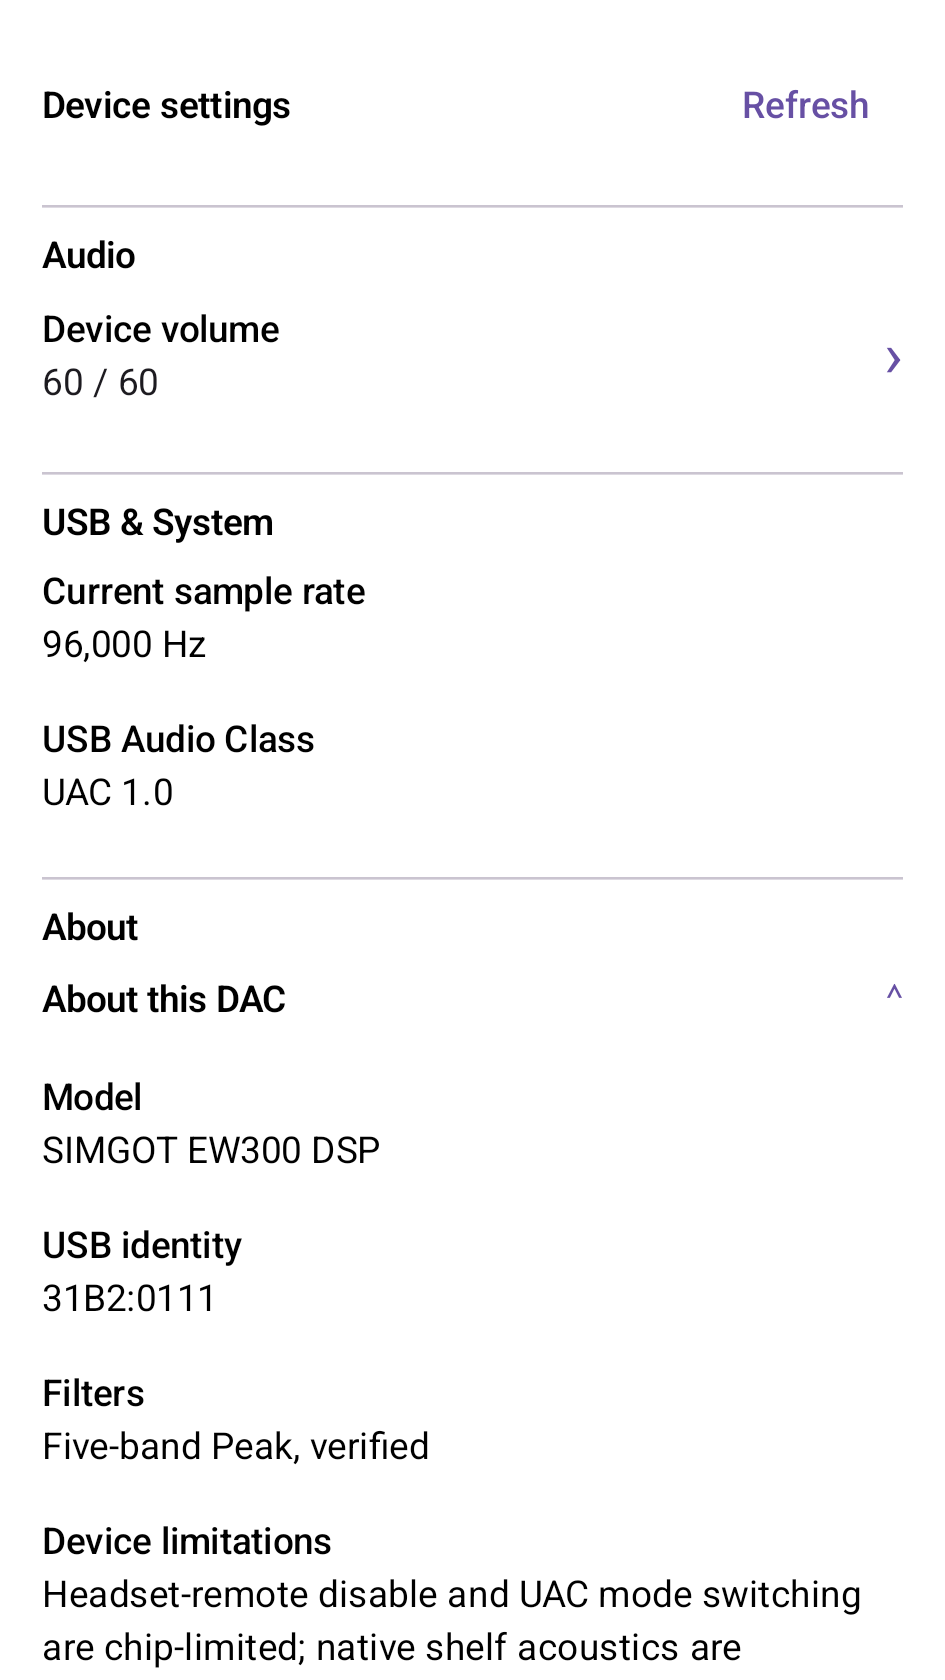
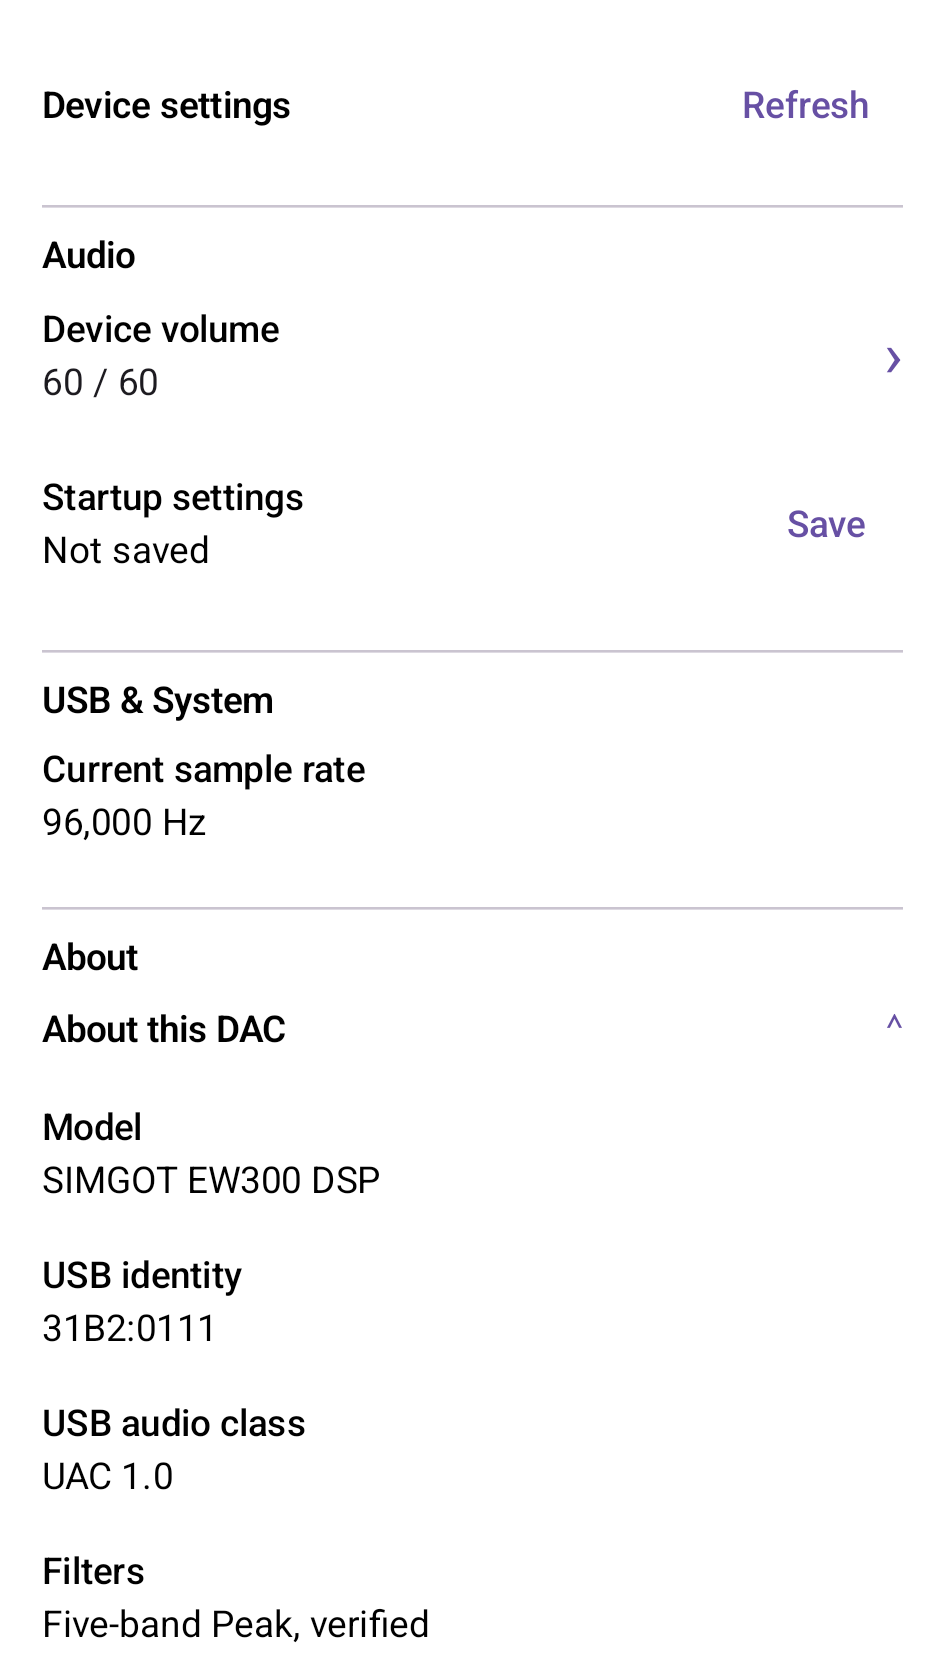
Polish the v0.11 device page: startup Save, fixed USB class, shorter copy
Startup settings now offers a Save action while the state is "Not saved",
matching the JA11 pattern; an unknown state still renders no row.

Move USB Audio Class into About as "USB audio class" because it is a
fixed property, not a setting. USB & System keeps only the read-only
current sample rate.

Tighten the volume dialog, the Settings Direct Flash help, and the EW300
output subtitle to one concise sentence each, keeping sentence-case
labels and one action per row on the shared JA11 components.

Recapture the four DEVICE screenshots from this APK and add a Compose
test for the startup Save action.

Changed region(s): [[0.0307, 0.65, 0.9206, 0.9905], [0.0307, 0.2786, 0.3989, 0.619], [0.8286, 0.2786, 0.9206, 0.3405]]

diff --git a/app/src/androidTest/java/com/weekssa/opraeqforuapp/ui/screens/Ew300ProductSurfaceTest.kt b/app/src/androidTest/java/com/weekssa/opraeqforuapp/ui/screens/Ew300ProductSurfaceTest.kt
@@ -13,12 +13,14 @@ import com.weekssa.opraeqforuapp.domain.dac.DacStateFreshness
 import com.weekssa.opraeqforuapp.domain.dac.HardwareEqSnapshotFactory
 import com.weekssa.opraeqforuapp.domain.dac.HardwareEqSnapshotState
 import com.weekssa.opraeqforuapp.domain.ew300.Ew300Protocol
+import com.weekssa.opraeqforuapp.domain.ew300.Ew300RuntimePersistenceState
 import com.weekssa.opraeqforuapp.domain.ew300.Ew300UacStatus
 import com.weekssa.opraeqforuapp.domain.kt02h20.Kt02h20Band
 import com.weekssa.opraeqforuapp.ui.Ew300UacUiState
 import com.weekssa.opraeqforuapp.ui.MyDacEditorUiState
 import com.weekssa.opraeqforuapp.data.catalog.CatalogState
 import com.weekssa.opraeqforuapp.data.kt02h20.Kt02h20ConnectionState
+import org.junit.Assert.assertEquals
 import org.junit.Assert.assertTrue
 import org.junit.Rule
 import org.junit.Test
@@ -45,7 +47,10 @@ class Ew300ProductSurfaceTest {
         return HardwareEqSnapshotState(bundle = bundle, freshness = DacStateFreshness.CURRENT)
     }
 
-    internal fun renderDevice() {
+    internal fun renderDevice(
+        runtimePersistence: Ew300RuntimePersistenceState = Ew300RuntimePersistenceState.UNKNOWN,
+        onSaveRuntime: () -> Unit = {},
+    ) {
         composeRule.setContent {
             Column(Modifier.verticalScroll(rememberScrollState())) {
                 Ew300DeviceStatus(
@@ -61,6 +66,8 @@ class Ew300ProductSurfaceTest {
                             headsetFeaturePresent = false,
                         ),
                     ),
+                    runtimePersistence = runtimePersistence,
+                    onSaveRuntime = onSaveRuntime,
                     running = false,
                     onRun = {},
                     onShareReadable = {},
@@ -92,8 +99,8 @@ class Ew300ProductSurfaceTest {
         composeRule.onNodeWithText("Startup settings").assertDoesNotExist()
         composeRule.onNodeWithText("Current sample rate").performScrollTo().assertIsDisplayed()
         composeRule.onNodeWithText("96,000 Hz").assertIsDisplayed()
-        composeRule.onNodeWithText("USB Audio Class").performScrollTo().assertIsDisplayed()
-        composeRule.onNodeWithText("UAC 1.0").assertIsDisplayed()
+        // The USB audio class is fixed for this device, so it lives in About.
+        composeRule.onNodeWithText("USB audio class").assertDoesNotExist()
 
         composeRule.onNodeWithText("Output gain").assertDoesNotExist()
         composeRule.onNodeWithText("Equalizer").assertDoesNotExist()
@@ -108,12 +115,28 @@ class Ew300ProductSurfaceTest {
     }
 
     @Test
+    fun startupSettingsOffersSaveWhileTheStateIsNotSaved() {
+        var saves = 0
+        renderDevice(
+            runtimePersistence = Ew300RuntimePersistenceState.RUNTIME_ONLY,
+            onSaveRuntime = { saves += 1 },
+        )
+
+        composeRule.onNodeWithText("Startup settings").performScrollTo().assertIsDisplayed()
+        composeRule.onNodeWithText("Not saved").assertIsDisplayed()
+        composeRule.onNodeWithText("Save").performScrollTo().performClick()
+        composeRule.runOnIdle { assertEquals(1, saves) }
+    }
+
+    @Test
     fun aboutListsIdentityAndTheOneLineLimitations() {
         renderDevice()
 
         composeRule.onNodeWithText("About this DAC").performScrollTo().performClick()
         composeRule.onNodeWithText("SIMGOT EW300 DSP").performScrollTo().assertIsDisplayed()
         composeRule.onNodeWithText("31B2:0111").performScrollTo().assertIsDisplayed()
+        composeRule.onNodeWithText("USB audio class").performScrollTo().assertIsDisplayed()
+        composeRule.onNodeWithText("UAC 1.0").assertIsDisplayed()
         composeRule.onNodeWithText("Device limitations").performScrollTo().assertIsDisplayed()
         composeRule.onNodeWithText(
             "Headset-remote disable and UAC mode switching are chip-limited; native shelf acoustics are unmeasured; the device accepts a microphone mute request, but no effect on captured audio has been measured.",

diff --git a/app/src/main/java/com/weekssa/opraeqforuapp/ui/screens/Ew300MyDacContent.kt b/app/src/main/java/com/weekssa/opraeqforuapp/ui/screens/Ew300MyDacContent.kt
@@ -769,7 +769,7 @@ internal fun Ew300DeviceStatus(
             text = {
                 Column(verticalArrangement = Arrangement.spacedBy(12.dp)) {
                     Text(
-                        "60 is the loudest setting and 0 is silent; each step is one dB. Changes apply for this session until you save from the EQ tab.",
+                        "60 is the loudest, 0 is silent, one step per dB. Applies until you save.",
                         style = MaterialTheme.typography.bodyMedium,
                     )
                     Text(
@@ -877,6 +877,14 @@ internal fun Ew300DeviceStatus(
                 Text("Startup settings", style = MaterialTheme.typography.labelLarge)
                 Text(startupLabel, style = MaterialTheme.typography.bodyMedium)
             }
+            if (runtimePersistence == Ew300RuntimePersistenceState.RUNTIME_ONLY) {
+                TextButton(
+                    onClick = onSaveRuntime,
+                    enabled = !runtimeSaveState.running && !operationBusy,
+                ) {
+                    Text(if (runtimeSaveState.running) "Saving…" else "Save")
+                }
+            }
         }
     }
 
@@ -886,10 +894,6 @@ internal fun Ew300DeviceStatus(
         value = uacState.status?.currentSampleRateHz?.let { rate ->
             String.format(Locale.US, "%,d Hz", rate)
         } ?: "Not read",
-    )
-    ReadOnlyValueRow(
-        label = "USB Audio Class",
-        value = uacState.status?.uacVersion ?: "Not read",
     )
 
     DeviceSectionTitle("About")
@@ -903,6 +907,9 @@ internal fun Ew300DeviceStatus(
             ReadOnlyValueRow(label = "Firmware", value = firmware)
         }
         ReadOnlyValueRow(label = "USB identity", value = "31B2:0111")
+        uacState.status?.uacVersion?.let { uacVersion ->
+            ReadOnlyValueRow(label = "USB audio class", value = uacVersion)
+        }
         ReadOnlyValueRow(label = "Filters", value = "Five-band Peak, verified")
         ReadOnlyValueRow(
             label = "Device limitations",

diff --git a/app/src/main/java/com/weekssa/opraeqforuapp/ui/screens/SettingsScreen.kt b/app/src/main/java/com/weekssa/opraeqforuapp/ui/screens/SettingsScreen.kt
@@ -214,7 +214,7 @@ fun SettingsScreen(
             modifier = Modifier.padding(bottom = 6.dp),
         )
         Text(
-            text = "Direct Flash writes only the EQ transaction you explicitly request. A hardware DAC must be the active EQ target, its Direct Flash switch must be on, and the device must be connected; My EQs and the headphone screen name the exact missing step. My DAC device controls are shown separately and only for capabilities established for the connected model.",
+            text = "Direct Flash writes only the EQ you request. The DAC must be the active target, have Direct Flash on, and be connected.",
             style = MaterialTheme.typography.bodySmall,
             color = MaterialTheme.colorScheme.onSurfaceVariant,
             modifier = Modifier.padding(bottom = 10.dp),
@@ -521,7 +521,7 @@ private fun OutputOption(
                         ExportDevice.SIMGOT_EW300 -> if (BuildConfig.EW300_SHELF_EDITOR_ENABLED) {
                             "Shelf-free EQs use five Peak bands; native shelves inside the -6 dB / Q 0.707 envelope keep their type 3/4 words; anything else is fitted to five Peaks"
                         } else {
-                            "Shelf-free EQs use five Peak bands; shelf bands are fitted to those five Peaks and reported as Optimized"
+                            "Five Peak bands · shelf bands fitted and reported as Optimized"
                         }
                         else -> "EQ Library adapts the source to this device's hardware capabilities"
                     },

diff --git a/app/src/androidTest/java/com/weekssa/opraeqforuapp/ui/screens/Ew300DeviceScreenshotTest.kt b/app/src/androidTest/java/com/weekssa/opraeqforuapp/ui/screens/Ew300DeviceScreenshotTest.kt
@@ -25,6 +25,7 @@ import com.weekssa.opraeqforuapp.domain.dac.DacStateFreshness
 import com.weekssa.opraeqforuapp.domain.dac.HardwareEqSnapshotFactory
 import com.weekssa.opraeqforuapp.domain.dac.HardwareEqSnapshotState
 import com.weekssa.opraeqforuapp.domain.ew300.Ew300Protocol
+import com.weekssa.opraeqforuapp.domain.ew300.Ew300RuntimePersistenceState
 import com.weekssa.opraeqforuapp.domain.ew300.Ew300UacStatus
 import com.weekssa.opraeqforuapp.domain.kt02h20.Kt02h20Band
 import com.weekssa.opraeqforuapp.ui.Ew300UacUiState
@@ -82,6 +83,7 @@ class Ew300DeviceScreenshotTest {
                                 headsetFeaturePresent = false,
                             ),
                         ),
+                        runtimePersistence = Ew300RuntimePersistenceState.RUNTIME_ONLY,
                         running = false,
                         onRun = {},
                         onShareReadable = {},
@@ -113,6 +115,7 @@ class Ew300DeviceScreenshotTest {
         composeRule.waitForIdle()
         capture("about-expanded.png")
         val limitations = composeRule.onNodeWithText("Device limitations")
+            .performScrollTo()
             .captureToImage()
             .asAndroidBitmap()
         File(dir(), "limitations.png").outputStream().use { stream ->

diff --git a/docs/planning/ew300-ja11-parity/TEST_EVIDENCE_LOG.md b/docs/planning/ew300-ja11-parity/TEST_EVIDENCE_LOG.md
@@ -489,3 +489,15 @@ Add entries below in chronological order.
 - Restoration: "Reset to flat" with one Save returned Flat, five Peak 1 kHz/0 dB/Q1, gain 0.0 dB.
 - Save count: one target Save plus one restoration Save. No listening test. DAC left flat at 0.0 dB.
 
+
+### T-034 — DEVICE polish: startup Save, fixed USB class moved to About, tighter copy
+
+- Date: 2026-11-06
+- Candidate: com.weekssa.opraeqforuapp.v011beta 0.11.0-beta.1/23, APK 1995927d3adfe70928a44488c5ba876e97e60e67636fb321b8561e50bb199ea1, built 2026-11-06T04:52:07Z, local debug signer.
+- Startup settings now mirrors JA11: when the state is "Not saved" the row carries a Save action that calls the same Save transaction as the EQ tab; "Saved" shows without an action, and an unknown state still renders no row. A Compose test asserts the Save button is present, clickable, and invokes the callback.
+- USB Audio Class moved from USB & System to About as "USB audio class", because the class is fixed for this device and was presented like a settable row. USB & System now holds only "Current sample rate".
+- Copy tightened: the volume dialog reads "60 is the loudest, 0 is silent, one step per dB. Applies until you save."; the Settings Direct Flash help reads "Direct Flash writes only the EQ you request. The DAC must be the active target, have Direct Flash on, and be connected."; the EW300 output subtitle is "Five Peak bands · shelf bands fitted and reported as Optimized".
+- Consistency: rows use the shared JA11 components (DeviceOperationStatusHeader, DeviceSectionTitle, SimpleDeviceSettingRow, ReadOnlyValueRow, ExpandableAboutHeader), sentence-case labels, one action per row, 48 dp touch targets.
+- Validation: JVM 878 tests, 0 failures (04:52:33Z); lint 0 errors / 121 warnings / 2 hints (report 22:57:35 CST); connected v011beta instrumented suite 84/84 on emulator-5554 (BUILD SUCCESSFUL 04:55:17Z). Screenshots recaptured from this APK.
+- No Pixel interaction for this candidate; no Flash or Save was repeated.
+

diff --git a/docs/V0.11_PROTOTYPE_DESIGN_LANGUAGE.md b/docs/V0.11_PROTOTYPE_DESIGN_LANGUAGE.md
@@ -65,3 +65,16 @@ Screenshots: docs/screenshots/v011/{device-top,about-expanded,device-bottom,limi
 from this candidate at 360 dp width; device-bottom uses a 360×360 viewport because the page fits
 otherwise.
 
+
+## Polish pass (candidate 1995927d)
+
+- Startup settings now matches JA11: "Not saved" carries a Save action; "Saved" does not. An
+  unknown state still renders no row.
+- USB Audio Class moved to About ("USB audio class"). It is a fixed property of the device, so
+  presenting it in the USB & System section implied a setting that does not exist. USB & System now
+  holds only the read-only current sample rate.
+- Copy shortened to one line per concept: the volume dialog, the Settings Direct Flash help, and the
+  EW300 output subtitle. Labels stay sentence case and every row keeps a single action.
+- Consistency: both device pages now render through the same shared rows and section titles, so the
+  EW300 reads with the same rhythm as the JA11.
+

diff --git a/docs/releases/v0.11.0-beta.1.md b/docs/releases/v0.11.0-beta.1.md
@@ -18,10 +18,10 @@ work. It is not a new chip investigation and it does not claim full FiiO JA11 pa
 
 | Code head | 57fd583651775f39aeef8efcf72958e5b8d05254 |
 | APK | app/build/outputs/apk/v011beta/app-v011beta.apk |
-| APK SHA-256 | 12974c73297479df9c53a360090d6a09b400ff2aefb85d25839cc5fb1ecba47e |
+| APK SHA-256 | 1995927d3adfe70928a44488c5ba876e97e60e67636fb321b8561e50bb199ea1 |
 | Signer SHA-256 | 945614206b73258162a2e0722ddcf4a53ae3018652e0fb65d2b9bcc3e38521a5 |
-| Build time | 2026-11-06T04:18:41Z |
-| Local validation | JVM 878 tests, lint 0 errors, emulator 83/83 |
+| Build time | 2026-11-06T04:52:07Z |
+| Local validation | JVM 878 tests, lint 0 errors, emulator 84/84 |
 | Device surface | JA11 layout: Audio / USB & System / About; no microphone section, no engineering rows |
 | Pixel validation | Flash of AFUL Explorer — LoboNautics with one Save, exact readback, one restoration Save, persisted across a power cycle |
 

diff --git a/docs/implementation/v011-ew300-prototype-20261105/CHECKPOINT.md b/docs/implementation/v011-ew300-prototype-20261105/CHECKPOINT.md
@@ -14,9 +14,9 @@
 | Package | com.weekssa.opraeqforuapp.v011beta |
 | Build type | v011beta (release-derived, unminified, update checks off) |
 | APK path | app/build/outputs/apk/v011beta/app-v011beta.apk |
-| APK SHA-256 | 12974c73297479df9c53a360090d6a09b400ff2aefb85d25839cc5fb1ecba47e |
+| APK SHA-256 | 1995927d3adfe70928a44488c5ba876e97e60e67636fb321b8561e50bb199ea1 |
 | Signer SHA-256 | 945614206b73258162a2e0722ddcf4a53ae3018652e0fb65d2b9bcc3e38521a5 (Android debug certificate, local test signer) |
-| Build time | 2026-11-06T04:18:41Z (2026-11-05 22:18:41 CST) |
+| Build time | 2026-11-06T04:52:07Z (2026-11-05 22:52:07 CST) |
 
 The on-device base.apk hash matched this SHA-256 after install.
 
